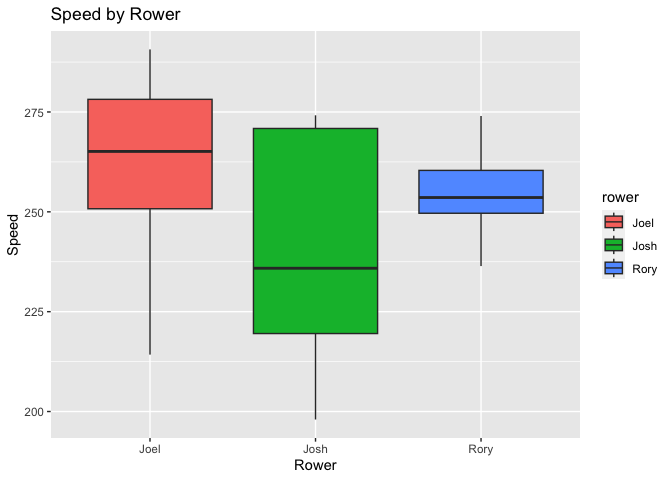
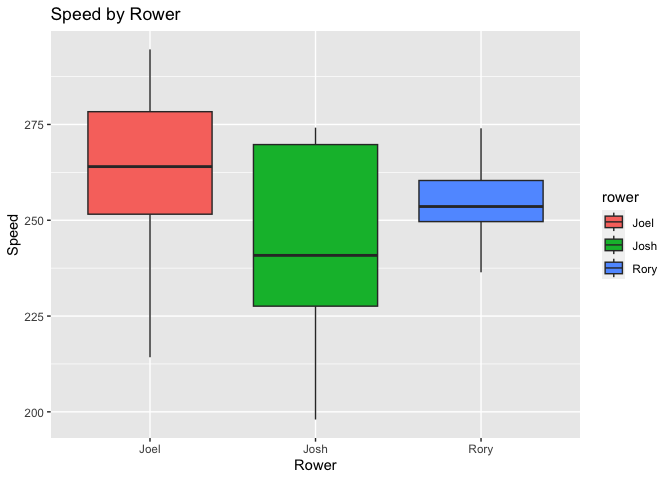
new results

diff --git a/row-tracking.md b/row-tracking.md
@@ -19,7 +19,7 @@ skim(rowing_data)
 |                                                  |             |
 |:-------------------------------------------------|:------------|
 | Name                                             | rowing_data |
-| Number of rows                                   | 44          |
+| Number of rows                                   | 50          |
 | Number of columns                                | 6           |
 | \_\_\_\_\_\_\_\_\_\_\_\_\_\_\_\_\_\_\_\_\_\_\_   |             |
 | Column type frequency:                           |             |
@@ -39,18 +39,18 @@ Data summary
 
 **Variable type: numeric**
 
-| skim_variable | n_missing | complete_rate |    mean |     sd |  p0 |  p25 |    p50 |  p75 | p100 | hist  |
-|:--------------|----------:|--------------:|--------:|-------:|----:|-----:|-------:|-----:|-----:|:------|
-| erg_no        |         0 |             1 |    2.11 |   1.15 |   1 |    1 |    2.0 |    3 |    6 | ▇▃▁▁▁ |
-| time_mins     |         0 |             1 |    8.73 |   4.03 |   3 |    4 |   12.0 |   12 |   12 | ▅▁▁▁▇ |
-| distance      |         0 |             1 | 2156.18 | 920.40 | 833 | 1085 | 2666.5 | 3006 | 3110 | ▆▁▁▂▇ |
-| stroke_rate   |         0 |             1 |   22.89 |   4.24 |  14 |   20 |   22.0 |   27 |   30 | ▂▅▇▃▇ |
+| skim_variable | n_missing | complete_rate |    mean |     sd |  p0 |    p25 |  p50 |     p75 | p100 | hist  |
+|:--------------|----------:|--------------:|--------:|-------:|----:|-------:|-----:|--------:|-----:|:------|
+| erg_no        |         0 |             1 |    2.10 |   1.11 |   1 |    1.0 |    2 |    3.00 |    6 | ▇▃▁▁▁ |
+| time_mins     |         0 |             1 |    9.12 |   3.93 |   3 |    4.0 |   12 |   12.00 |   12 | ▃▁▁▁▇ |
+| distance      |         0 |             1 | 2263.66 | 914.57 | 833 | 1091.5 | 2837 | 3011.25 | 3535 | ▇▂▁▇▇ |
+| stroke_rate   |         0 |             1 |   22.78 |   3.99 |  14 |   22.0 |   22 |   26.00 |   30 | ▁▃▇▂▅ |
 
 **Variable type: POSIXct**
 
 | skim_variable | n_missing | complete_rate | min        | max        | median     | n_unique |
 |:--------------|----------:|--------------:|:-----------|:-----------|:-----------|---------:|
-| date          |         0 |             1 | 2023-10-09 | 2023-10-31 | 2023-10-17 |        7 |
+| date          |         0 |             1 | 2023-10-09 | 2023-11-07 | 2023-10-17 |        8 |
 
 ``` r
 calculate_days_between <- function(data) {
@@ -118,8 +118,8 @@ print(summary_stats)
     ## # A tibble: 3 × 6
     ##   rower avg_speed avg_efficiency total_distance total_time avg_burnout_index
     ##   <chr>     <dbl>          <dbl>          <dbl>      <dbl>             <dbl>
-    ## 1 Joel       264.           87.3          33488        132               Inf
-    ## 2 Josh       240.          102.           20642         90               Inf
+    ## 1 Joel       264.           95.8          43147        168               Inf
+    ## 2 Josh       240.          109.           29294        126               Inf
     ## 3 Rory       254.          123.           40742        162               Inf
 
 ``` r
@@ -176,6 +176,36 @@ speed_model <- lmer(speed ~ days_between_sessions + (1 + days_between_sessions|r
 ```
 
     ## boundary (singular) fit: see ?isSingular
+
+``` r
+speed_model <- lmer(speed ~ days_between_sessions + (1|rower), data=processed_data)
+summary(speed_model)
+```
+
+    ## Linear mixed model fit by REML ['lmerMod']
+    ## Formula: speed ~ days_between_sessions + (1 | rower)
+    ##    Data: processed_data
+    ## 
+    ## REML criterion at convergence: 436.3
+    ## 
+    ## Scaled residuals: 
+    ##     Min      1Q  Median      3Q     Max 
+    ## -2.4141 -0.6643  0.0060  0.7629  1.9607 
+    ## 
+    ## Random effects:
+    ##  Groups   Name        Variance Std.Dev.
+    ##  rower    (Intercept) 110.1    10.49   
+    ##  Residual             389.9    19.74   
+    ## Number of obs: 50, groups:  rower, 3
+    ## 
+    ## Fixed effects:
+    ##                       Estimate Std. Error t value
+    ## (Intercept)           255.6378     6.8204  37.481
+    ## days_between_sessions  -1.4254     0.8085  -1.763
+    ## 
+    ## Correlation of Fixed Effects:
+    ##             (Intr)
+    ## dys_btwn_ss -0.196
 
 ``` r
 # Visualizations
